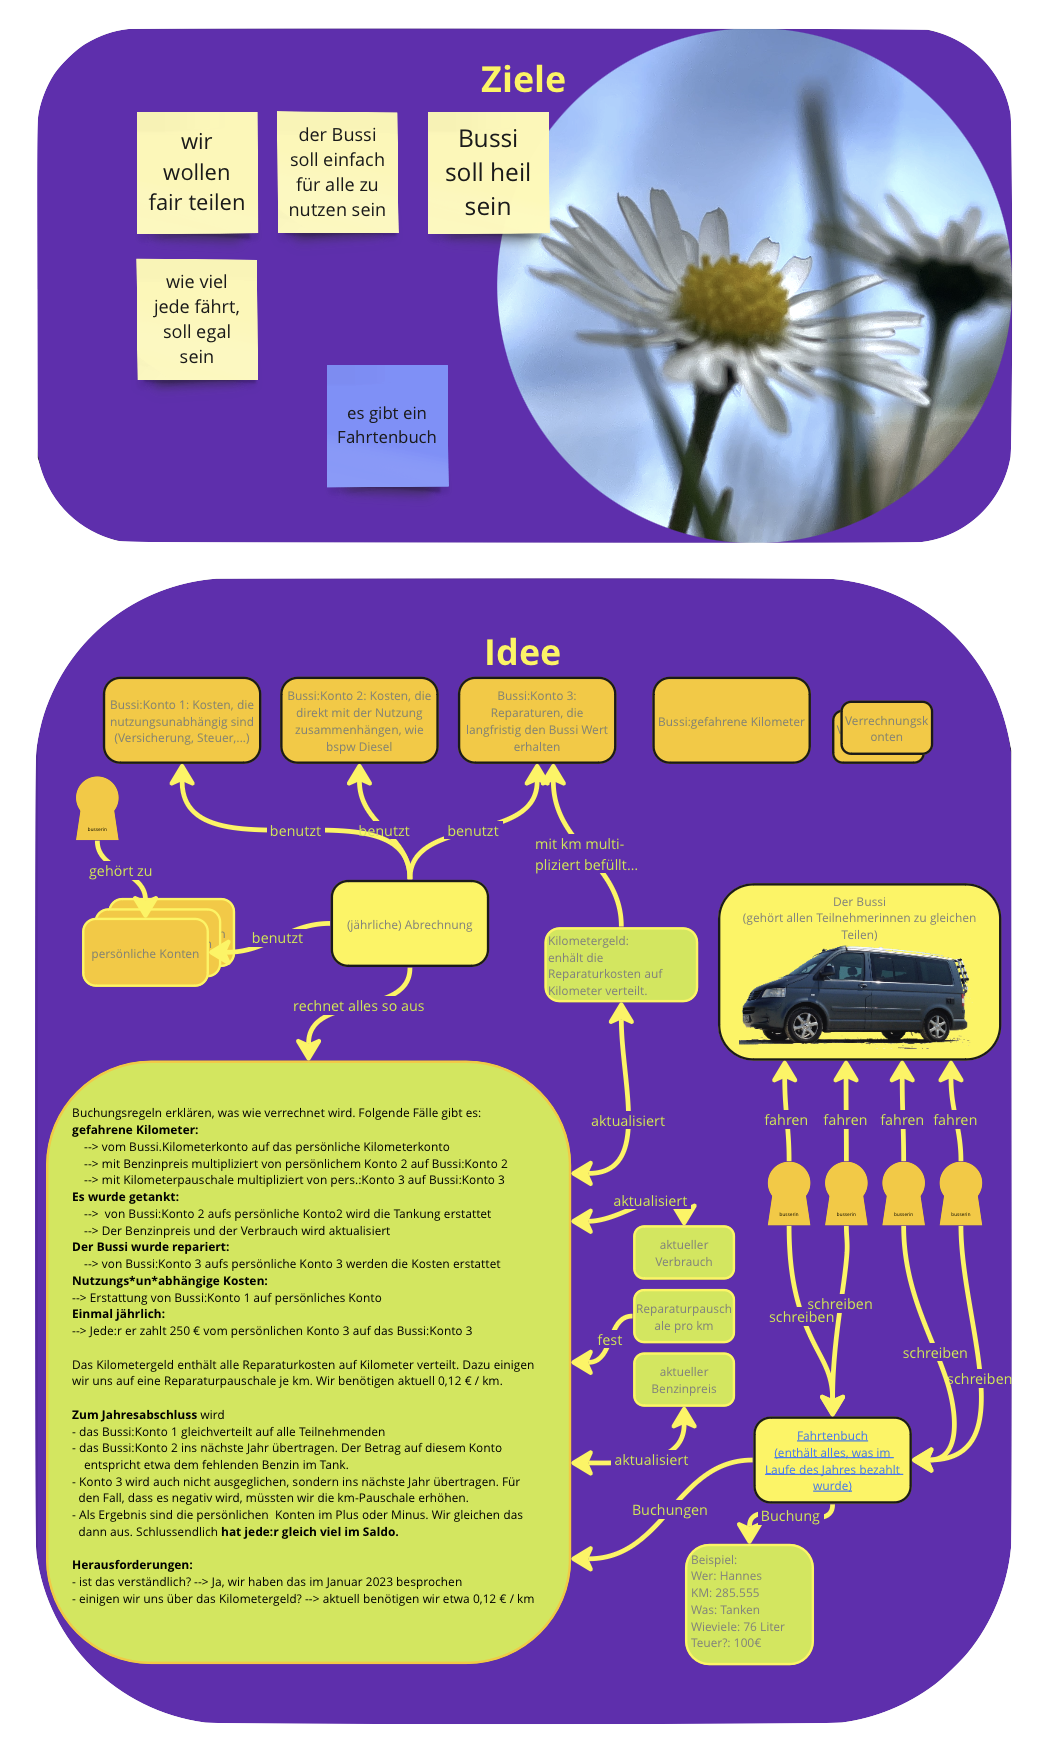
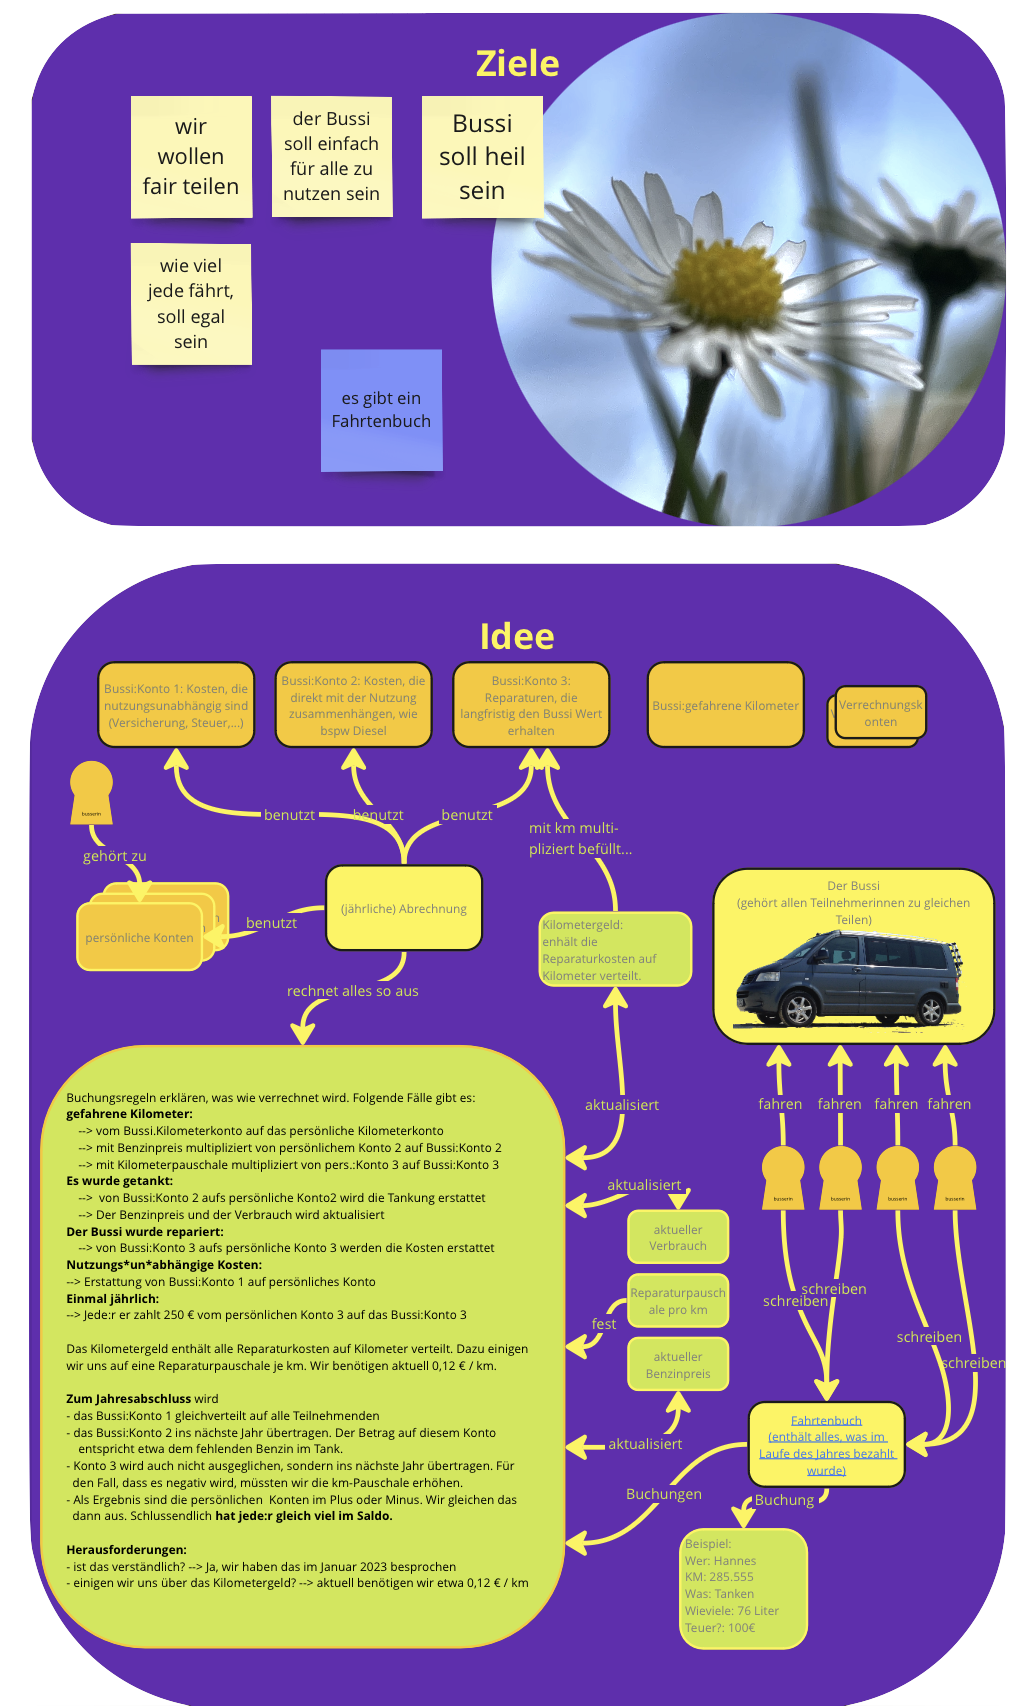
nun mit Ausgleichszahlungen...

diff --git a/mixins/bookEverythingToBS.ts b/mixins/bookEverythingToBS.ts
@@ -1,7 +1,7 @@
 import { book } from './book';
 import logd from './logDebug';
 import { Account, Booking, BussiAccountSystem, HauptbuchBooking } from "./types"
-import { bookingIsTanken } from './bookingHelpers';
+import { bookingIsTanken, isAusgleichsbuchung } from './bookingHelpers';
 
 const euroToNumber = (e: string | number) =>
   typeof e === "string" ? parseFloat(e.replaceAll('.', '').replace('€', '').trim().replace(',', '.'))
@@ -28,6 +28,21 @@ export const bookEverythingtoBS = (bs: BussiAccountSystem,
 
     for (var split of splits) {
       const splitAccount = split.trim()
+
+      // Ausgleichsbuchungen durchführen, die erkennt man am "an: "+Stakeholder im key
+      if (isAusgleichsbuchung(booking)) {
+        const from = bs.findAccount(splitAccount, "Ausgleichskonto")
+        const to = bs.findAccount(booking.key.slice(4), "Ausgleichskonto")  // slice(4), weil "an: " 4 Characters hat...
+        const betrag = euroToNumber(booking.amount) / splits.length
+        const text = booking.account + " Ausgleichsbuchung an " + booking.key.slice(4) + " " + betrag
+        const bk = new Booking(booking.nr, booking.date, 0,
+          betrag,
+          text,
+          +booking.km - +(booking.kmSinceLastEntry || "0"))
+        book(bk, from, to)
+        bookingWasUsed = true
+        logd("bookEverythingtoBS: ausgleichbuchung gefunden ", booking.key, booking.key.slice(4), from, to, bk)
+      }
 
       // zuerst Benzinpreis aktualisieren, Verbrauch aktualisieren
       if (bookingIsTanken(booking)) {
@@ -184,7 +199,7 @@ export const bookEverythingtoBS = (bs: BussiAccountSystem,
       /* Nullbuchung ignorieren */
       if ((euroToNumber(booking.amount) === 0) && +(booking.kmSinceLastEntry || "0") === 0) {
         bookingWasUsed = true
-        logd("Nullbuchung ignoriert: ", booking)
+        logd("Nullbuchung ignoriert: " + booking + " " + " km:" + booking.kmSinceLastEntry + " €:" + booking.amount)
       }
 
       /* Fehler buchen */

diff --git a/pages/balance.vue b/pages/balance.vue
@@ -219,7 +219,7 @@ const balanceKonto3 = (bs: BussiAccountSystem, allBookingsOfPeriod: Array<Hauptb
 
 // Balance the Salo of all stakeholders (ot Bussi) to equal anc compensate the Bussi Saldo
 const balanceSalden = (bs: BussiAccountSystem, allBookingsOfPeriod: Array<HauptbuchBooking>, shStore: any, perioden: any) => {
-  logd("balanceSalden. allBookingsOfPeriod ", allBookingsOfPeriod)
+  // logd("balanceSalden. allBookingsOfPeriod ", allBookingsOfPeriod)
   const bussiSaldo =  bs.saldierenEuro("Bussi")
   const zeroIfNegative = (x: number) => x < 0 ? 0 : x
   // create an array of all stakeholders with their rest to pay (saldo - 1/n * bussiSaldo)
@@ -227,7 +227,7 @@ const balanceSalden = (bs: BussiAccountSystem, allBookingsOfPeriod: Array<Hauptb
     const saldo = bs.saldierenEuro(e)+bussiSaldo/shStore.personen.length
     return {name: e, saldo: saldo}
   })
-  logd("balanceSalden. stakeholdersSaldo ", stakeholdersSaldo)
+  // logd("balanceSalden. stakeholdersSaldo ", stakeholdersSaldo)
   // book salden betwee4n personen until all salden of personen are equal
   // start with the person with the lowest saldo that absolute value is  lowwer thatn the highest saldo
   let maxIterations = 100
@@ -247,10 +247,12 @@ const balanceSalden = (bs: BussiAccountSystem, allBookingsOfPeriod: Array<Hauptb
     book (b, from, to )
     min.saldo += amount
     max.saldo -= amount
-    logd("balanceSalden. min ", min, "max ", max)
+    // logd("balanceSalden. min ", min, "max ", max)
   }
   return bs
 }
+
+
 </script>
 <style scoped>
 .grey {

diff --git a/components/Table.vue b/components/Table.vue
@@ -194,7 +194,7 @@ const aggregateBy = function (array: [any], aggregateKey: string) {
 const columns = function (antifilter = "Net FileCreated Steuer Year Month") {
   if (md.rows === undefined) return []
   else
-    return md.rows.length === 0
+    return (md.rows.length === 0)
       ? []
       : Object.keys(md.rows[0]).filter(
           (d) => !(antifilter.includes(d))
@@ -260,7 +260,7 @@ const getFilterFromQuery = function () {
   md.rows = executeFilter(md.rows, md.filters)
 }
 
-const setFilter = function setFilter(title, value, isAntiFilter) {
+const setFilter = function setFilter(title: string, value: string, isAntiFilter: boolean) {
   logd("Table.setfilter: ", title, value)
   const filter = { title, value, isAnti: isAntiFilter }
   // only allow one filter of the same type

diff --git a/stores/stakeholder.ts b/stores/stakeholder.ts
@@ -1,5 +1,6 @@
 import { defineStore } from 'pinia'
 import Papa from 'papaparse'
+import { URL } from '../mixins/url'
 import logd from '../mixins/logDebug'
 
 const getDataFromGoogle = (url: string): Promise<any> => {
@@ -16,11 +17,11 @@ const getDataFromGoogle = (url: string): Promise<any> => {
   return ret
 }
 
-const GURL = 'https://docs.google.com/spreadsheets/d/'
-const GKEY = '1UHH3Nzj6yj3d9FJbgswx-nj4fHTIuWeDzl5aJpgC-8M'
+logd("store.stakeholder: at start...")
+
 const GMAGIC = '/gviz/tq?tqx=out:csv'
 const GSN_sheet = '&sheet=stakeholder'
-const GdataUrl = GURL + GKEY + GMAGIC + GSN_sheet
+const GdataUrl = URL + GMAGIC + GSN_sheet
 
 export const useStakeholderStore = defineStore('stakeholder', {
   state: () => ({

diff --git a/stores/hauptbuch.ts b/stores/hauptbuch.ts
@@ -42,6 +42,12 @@ export const useHauptbuchStore = defineStore('hauptbuch', {
 
       if (Number(period)) data1 = data1.filter((e: any) => e["Datum"].substring(0, 4) === period)
 
+      // if 'period' contains 'alles bis' then filter out all rows after the given date
+      if (period && period.indexOf('bis') > 0) {
+        const date = period.split('bis')[1].trim()
+        data1 = data1.filter((e: any) => e["Datum"].substring(0, 4) <= date)
+      }
+
       /* create a ling in the text filed >*/
       const linkTo = (s: string, rnr: number): string =>
         '<a target="_blank" href='

diff --git a/mixins/bookingHelpers.ts b/mixins/bookingHelpers.ts
@@ -1,5 +1,6 @@
 import { Account, Booking, BussiAccountSystem, HauptbuchBooking } from "./types"
 
+export const isAusgleichsbuchung = (bk: HauptbuchBooking) => bk.key.indexOf("an: ") === 0
 export const bookingIsTanken = (booking: HauptbuchBooking) => +(booking.kmSinceLastFuelFill || "0") != 0 || "Tanken".indexOf(booking.description) > 0
 // find out, who has driven how many km since the last fuel fill-up
 export const whoHasDrivenHowManyKmSinceLastFill = (allBookingsOfPeriod: Array<HauptbuchBooking>, shStore: any): Object => {
